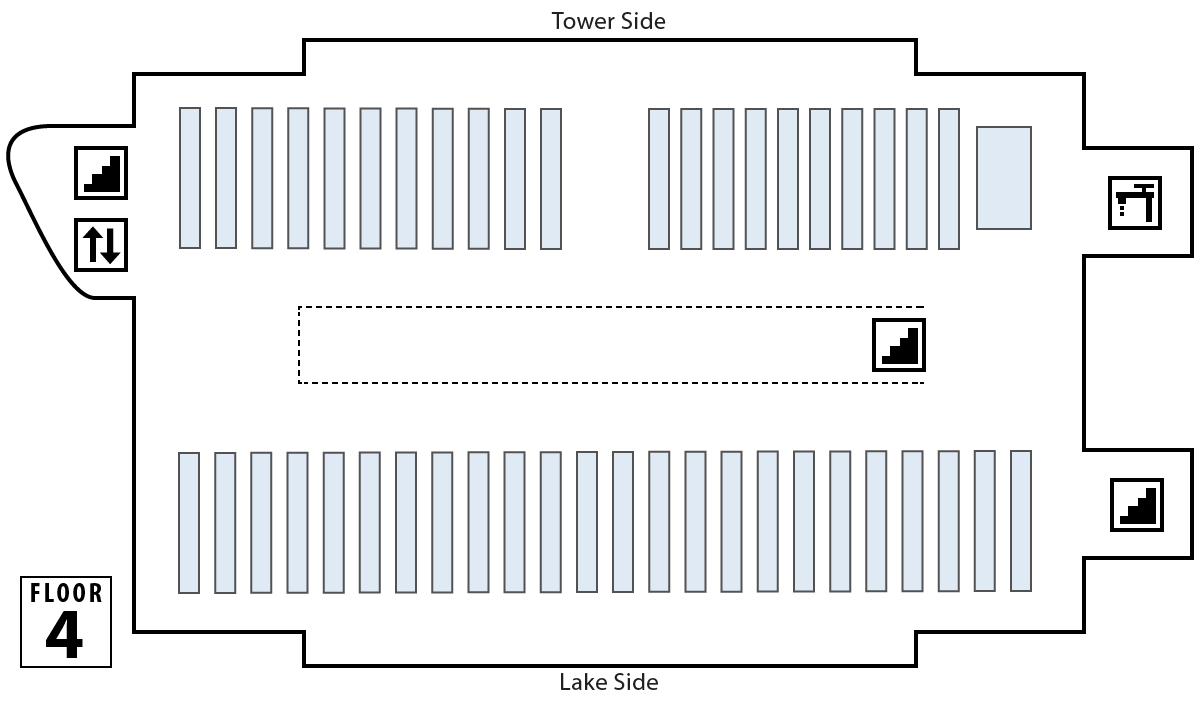
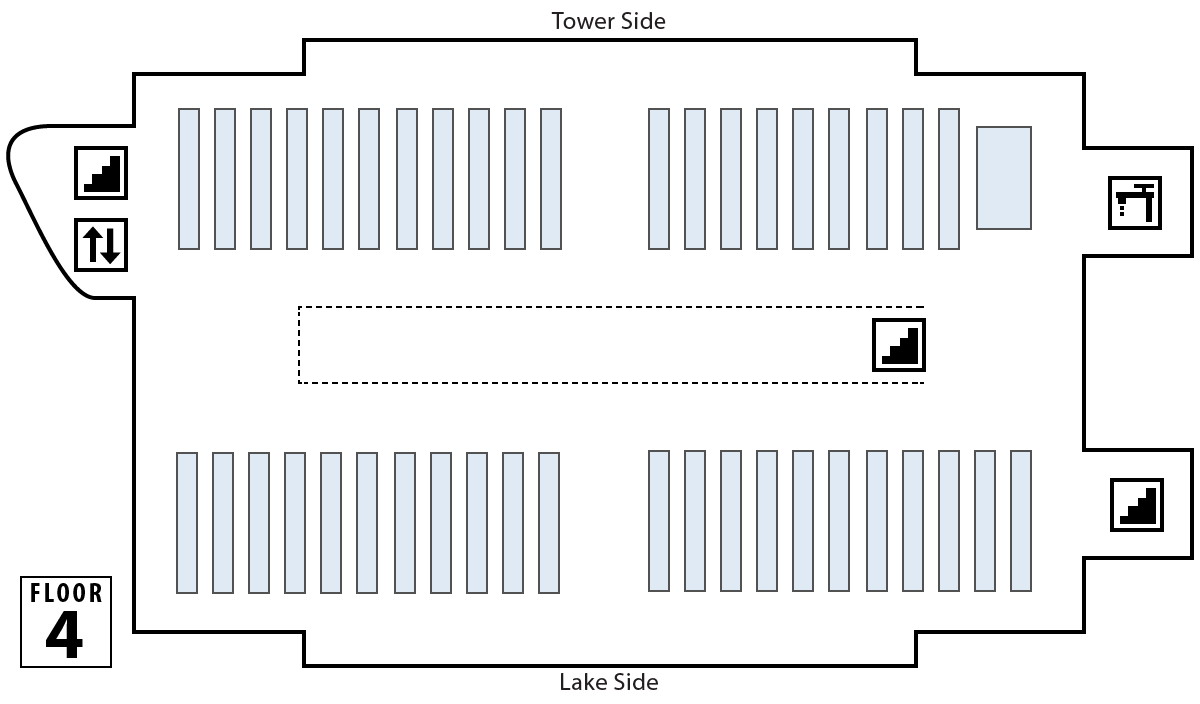
minor edits to floor maps, location changes for some music materials

Changed region(s): [[0.1233, 0.625, 0.8325, 0.8438], [0.1542, 0.1562, 0.4008, 0.375], [0.555, 0.1562, 0.7708, 0.375]]

diff --git a/js/custom.js b/js/custom.js
@@ -14,9 +14,9 @@ var staticLocations = {
   'serling': { 'floor': '5', 'x': 338, 'y': 139, 'width': 188, 'height': 83, 'message': 'This item is located in the archives on the fifth floor.', 'english': 'Archives' },
   'reference': { 'floor': '2', 'x': 128, 'y': 236, 'width': 110, 'height': 57, 'message': 'This item is located in the stacks on the right as you come in the main entrance.', 'english': 'Reference' },
   'microfilm': { 'floor': '4', 'x': 483, 'y': 59, 'width': 39, 'height': 64, 'message': 'This item is located in the metal cases in the southwest corner of the fourth floor, near the restrooms.', 'english': 'Microfilm' },
-  'musper': { 'floor': '3', 'x': 153, 'y': 228, 'width': 39, 'height': 86, 'message': 'This item is located in the northeast corner of the third floor, near the administrative offices.', 'english': 'Music Periodicals' },
-  'musicref': { 'floor': '3', 'x': 433, 'y': 233, 'width': 18, 'height': 78, 'message': 'This item is located near the music desk in the NW corner of the third floor.', 'english': 'Music Reference' },
-  'miniscore': { 'floor': '3', 'x': 413, 'y': 250, 'width': 21, 'height': 64, 'message': 'This item is located near the music desk in the NW corner of the third floor.', 'english': 'Mini scores' },
+  'musper': { 'floor': '3', 'x': 170, 'y': 232, 'width': 20, 'height': 81, 'message': 'This item is located in the northeast corner of the third floor, near the administrative offices.', 'english': 'Music Periodicals' },
+  'musicref': { 'floor': '3', 'x': 442, 'y': 233, 'width': 10, 'height': 78, 'message': 'This item is located near the music desk in the NW corner of the third floor.', 'english': 'Music Reference' },
+  'miniscore': { 'floor': '3', 'x': 433, 'y': 234, 'width': 10, 'height': 79, 'message': 'This item is located near the music desk in the NW corner of the third floor.', 'english': 'Mini scores' },
   'musicfolio': { 'floor': '3', 'x': 413, 'y': 292, 'width': 10, 'height': 23, 'message': 'This item is located near the music desk in the NW corner of the third floor.', 'english': 'Music Folio' },
   'oversize': { 'floor': '5', 'x': 303, 'y': 139, 'width': 40, 'height': 82, 'message': 'This item is located in the central area of the fifth floor, near the archives.', 'english': 'Oversize' },
   'folio': { 'floor': '5', 'x': 329, 'y': 187, 'width': 14, 'height': 36, 'message': 'This item is located in the central area of the fifth floor, near the archives.', 'english': 'Folio' },

diff --git a/js/1-map-data.js b/js/1-map-data.js
@@ -10,9 +10,9 @@ var staticLocations = {
 	'serling': { 'floor':'5','x':338,'y':139,'width':188,'height':83, 'message':'This item is located in the archives on the fifth floor.', 'english':'Archives' },
 	'reference': { 'floor':'2','x':128,'y':236,'width':110,'height':57, 'message':'This item is located in the stacks on the right as you come in the main entrance.', 'english':'Reference' },
 	'microfilm': { 'floor':'4','x':483,'y':59,'width':39,'height':64, 'message':'This item is located in the metal cases in the southwest corner of the fourth floor, near the restrooms.', 'english':'Microfilm' },
-	'musper': { 'floor':'3','x':153,'y':228,'width':39,'height':86, 'message':'This item is located in the northeast corner of the third floor, near the administrative offices.', 'english':'Music Periodicals' },
-	'musicref': { 'floor':'3','x':433,'y':233,'width':18,'height':78, 'message':'This item is located near the music desk in the NW corner of the third floor.', 'english':'Music Reference'},
-	'miniscore': { 'floor':'3','x':413,'y':250,'width':21,'height':64, 'message':'This item is located near the music desk in the NW corner of the third floor.', 'english':'Mini scores'},
+	'musper': { 'floor':'3','x':170,'y':232,'width':20,'height':81, 'message':'This item is located in the northeast corner of the third floor, near the administrative offices.', 'english':'Music Periodicals' },
+	'musicref': { 'floor':'3','x':442,'y':233,'width':10,'height':78, 'message':'This item is located near the music desk in the NW corner of the third floor.', 'english':'Music Reference'},
+	'miniscore': { 'floor':'3','x':433,'y':234,'width':10,'height':79, 'message':'This item is located near the music desk in the NW corner of the third floor.', 'english':'Mini scores'},
 	'musicfolio': { 'floor':'3','x':413,'y':292,'width':10,'height':23, 'message':'This item is located near the music desk in the NW corner of the third floor.', 'english':'Music Folio'},
 	'oversize': { 'floor':'5','x':303,'y':139,'width':40,'height':82, 'message':'This item is located in the central area of the fifth floor, near the archives.', 'english':'Oversize'},
 	'folio': { 'floor':'5','x':329,'y':187,'width':14,'height':36, 'message':'This item is located in the central area of the fifth floor, near the archives.', 'english':'Folio'},
